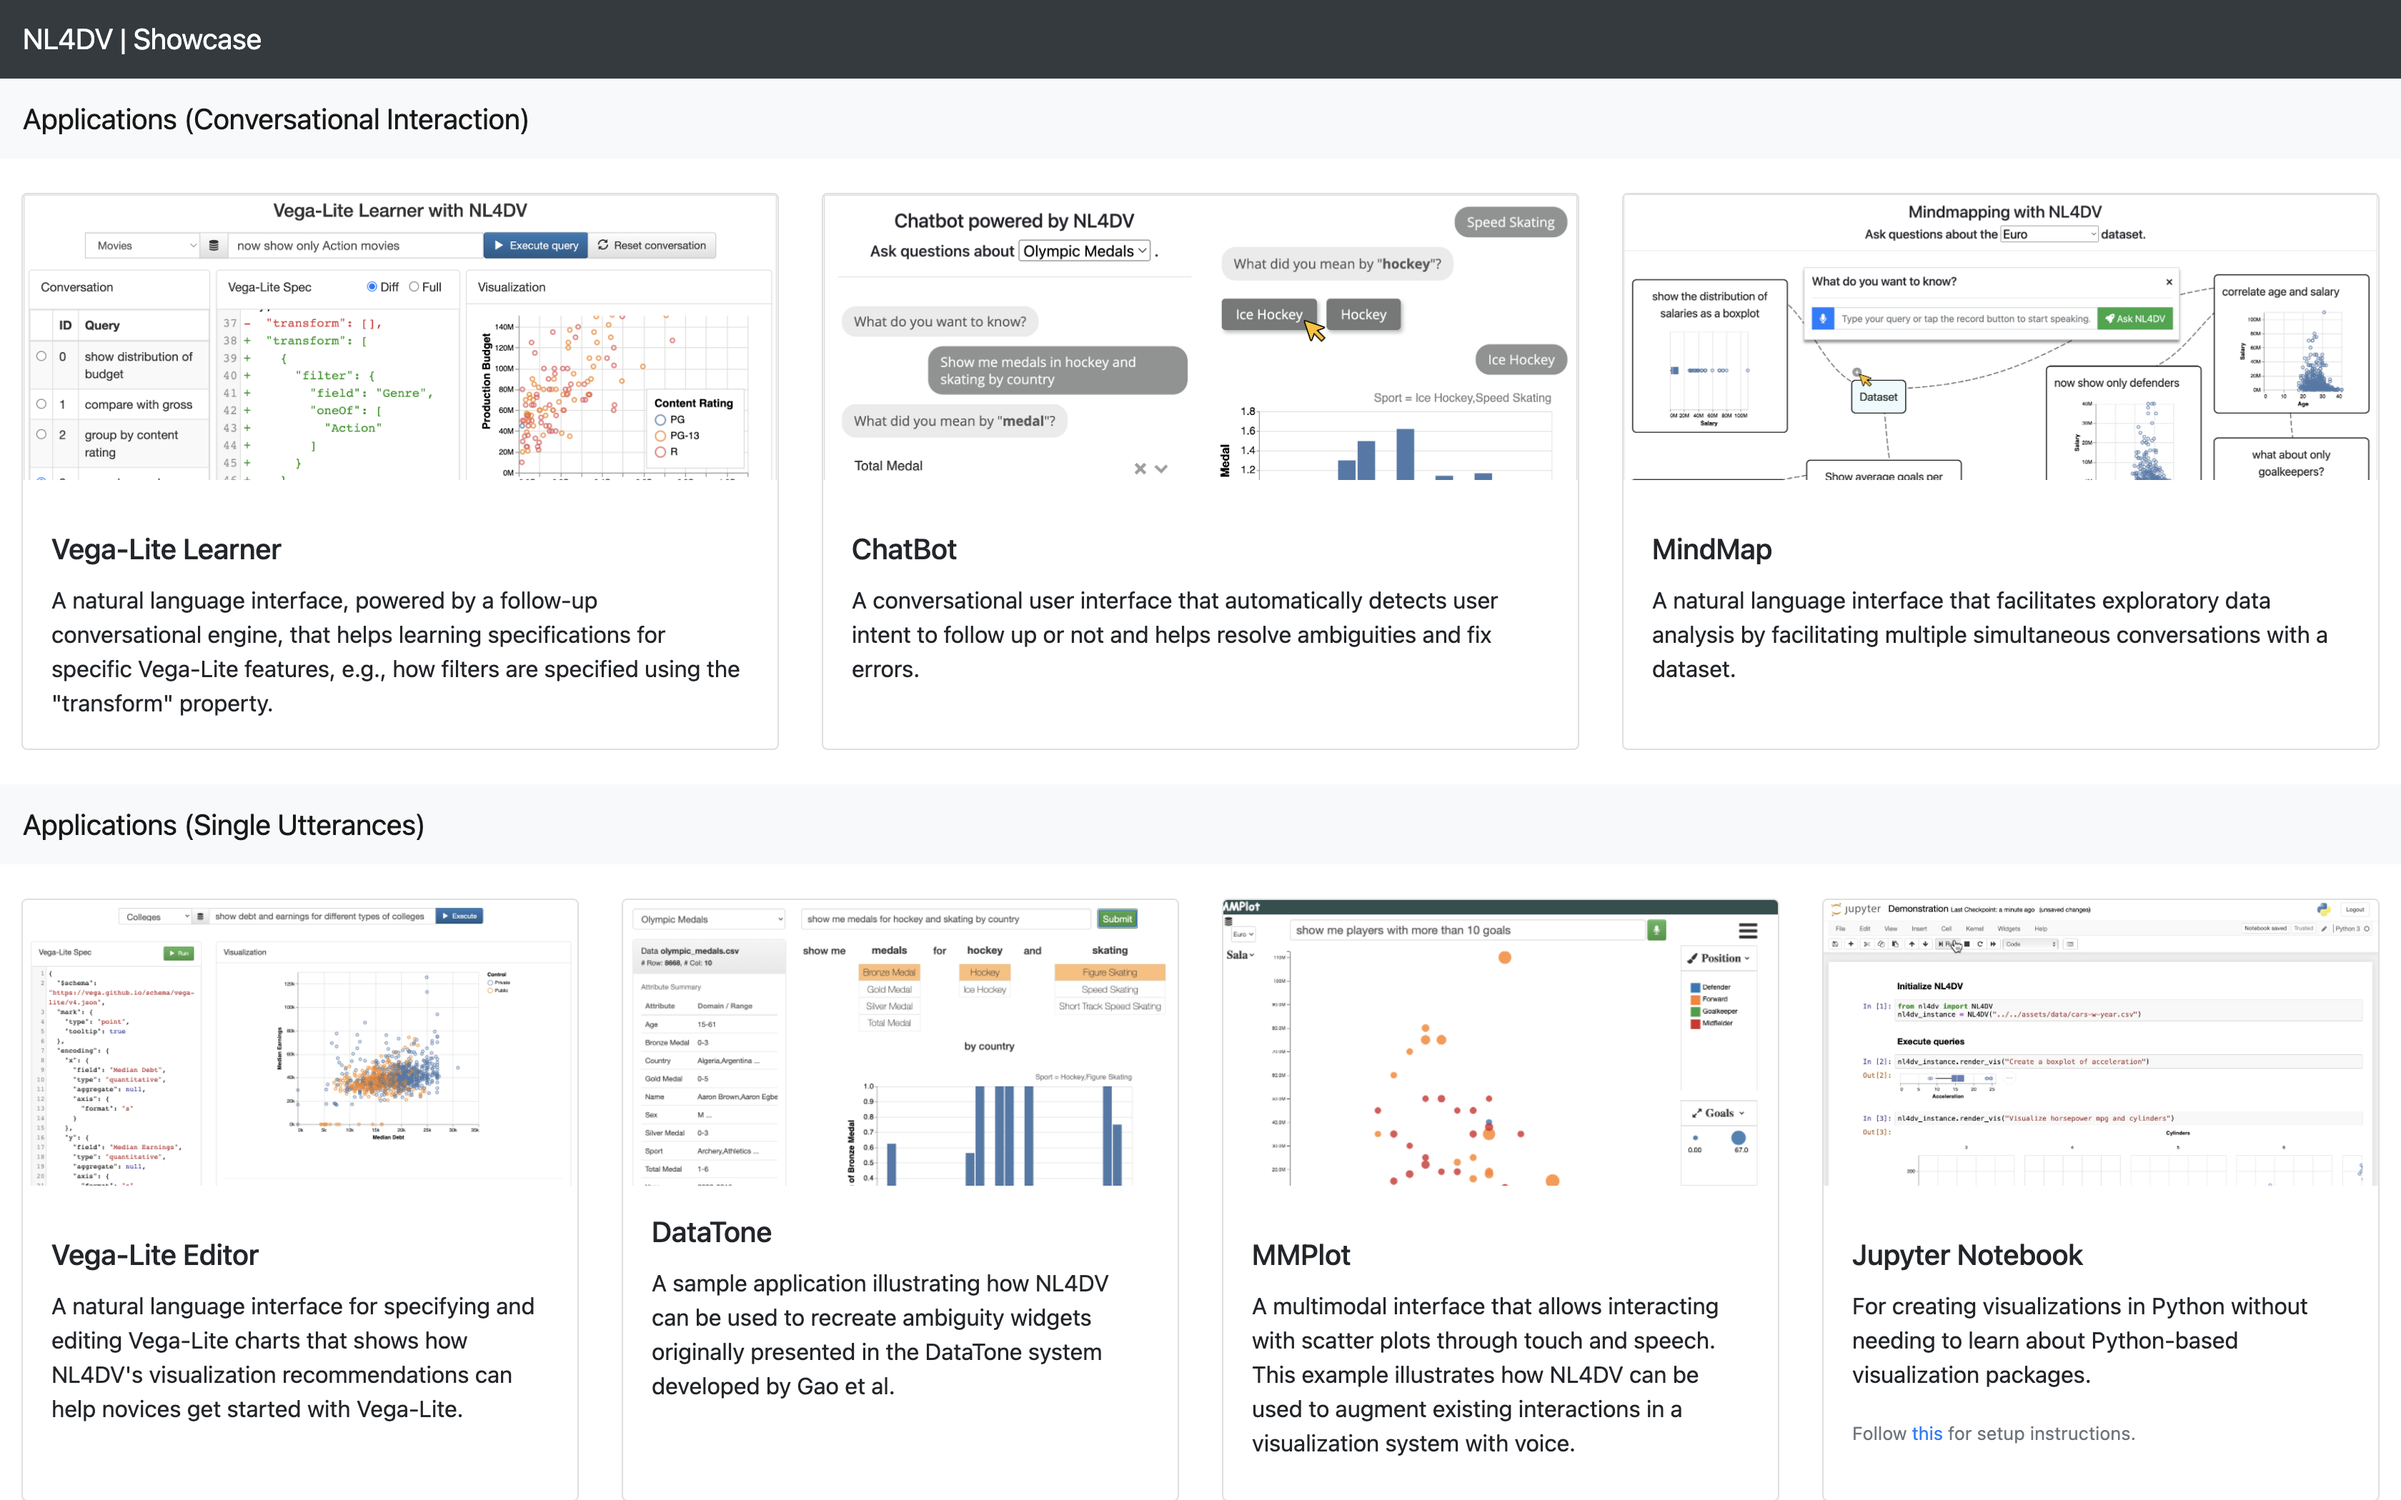
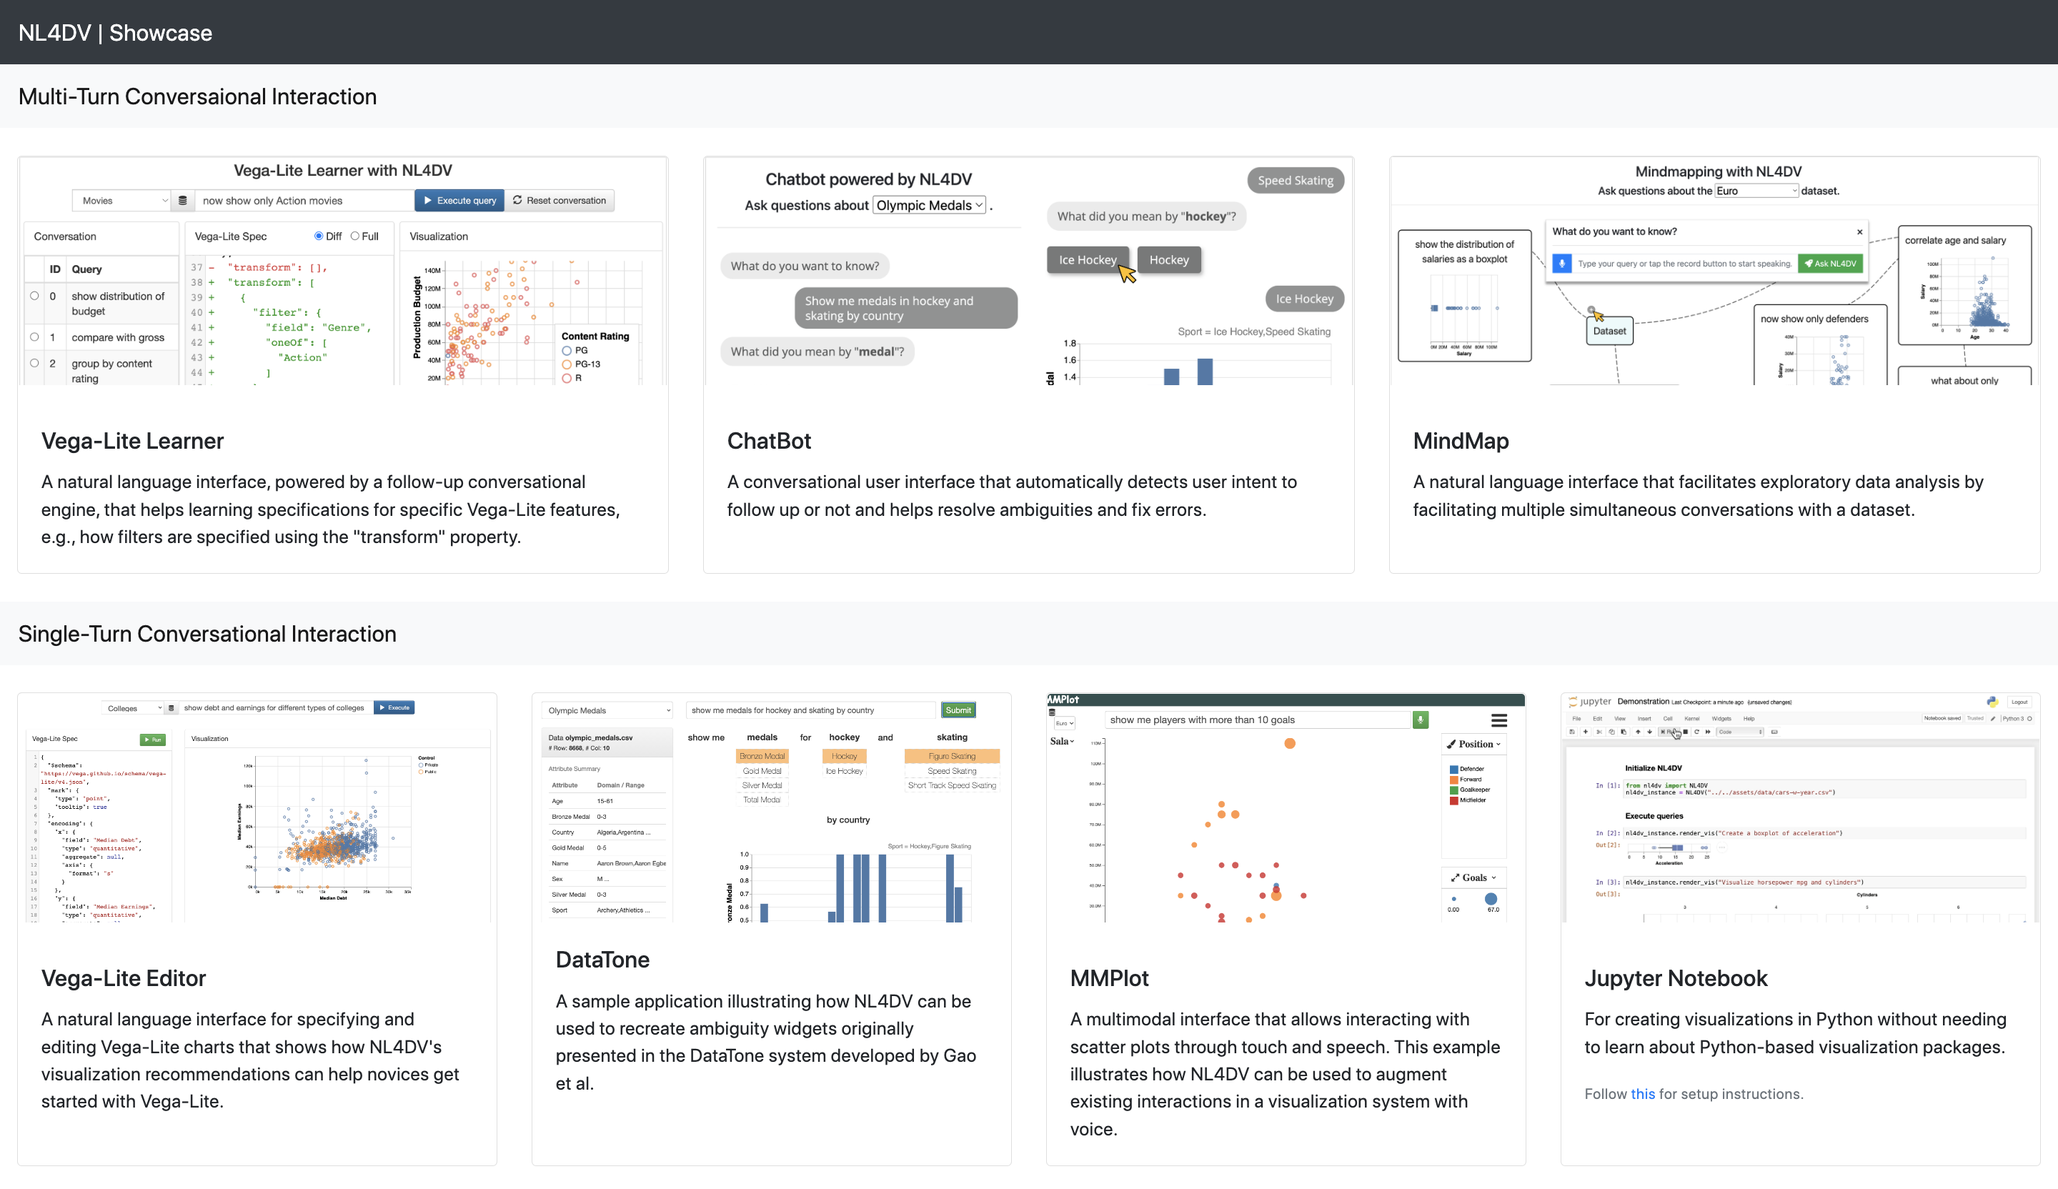
fix website

diff --git a/documentation.html b/documentation.html
@@ -481,7 +481,7 @@ print(output)</code></pre>
                                             <br/>
                                         </li>
                                         <li><p><b>Filter task.</b><br/>NL4DV applies the filter task by matching the condition against each data point but does not encode the involved attributes in the visualization. This was a design decision taken to avoid recommending a complex visualization due to too many encoded attributes.</p></li>
-                                        <li><p><b>Thresholds and Match scores.</b><br/>These are currently set based on heuristics and prior research workss; we encourage users/developers to modify them to suit their specific requirements.</p></li>
+                                        <li><p><b>Thresholds and Match scores.</b><br/>These are currently set based on heuristics and prior research works; we encourage users/developers to modify them to suit their specific requirements.</p></li>
                                     </ul>
                                 </div>
                             </section>
@@ -551,10 +551,10 @@ print(output)</code></pre>
                                             </li>
                                             <li>
                                                 <p>Launch the notebook using <code class="language-bash">jupyter notebook</code>.</p>
-                                                <p>Make sure your Jupyter notebook uses an (virtual) environment has NL4DV installed. Go to <a
+                                                <p>Make sure your Jupyter notebook uses an (virtual) environment that has NL4DV installed. Go to <a
                                                         href="https://github.com/nl4dv/nl4dv/tree/master/examples/applications/notebook"
                                                         target="_blank">examples/applications/notebook</a> and launch
-                                                    <b>Demo.ipynb</b></p>
+                                                    <b>Single-Turn-Conversational-Interaction.ipynb</b> to run the demo that showcases NL4DV's single-turn (standalone) conversational capabilities or <b>Multi-Turn-Conversational-Interaction.ipynb</b> for viewing NL4DV's follow-up capabilities</p>
                                             </li>
                                         </ul>
                                     </div>
@@ -604,10 +604,11 @@ print(output)</code></pre>
                                             </td>
                                         </tr>
                                         <tr>
-                                            <td>analyze_query(query=None,debug=False,verbose=False)</td>
+                                            <td>analyze_query(query=None,debug=False,verbose=False,dialog=None,dialog_id=None,query_id=None)</td>
                                             <td>
                                                 <p><code class="language-python">query</code> (str)</p>
-                                                <p><code class="language-python">debug</code> (str)</p>
+                                                <p><code class="language-python">debug</code> (bool)</p>
+                                                <p><code class="language-python">verbose</code> (bool)</p>
                                                 <p><code class="language-python">dialog</code> (bool or str='auto', optional)</p>
                                                 <p><code class="language-python">dialog_id</code> (str, optional)</p>
                                                 <p><code class="language-python">query_id</code> (str, optional)</p>

diff --git a/index.html b/index.html
@@ -124,7 +124,7 @@
                             </div>
                             <hr>
                             <div>
-                                <a class="btn btn-primary btn-cta m-xs" target="_blank"><i class="fas fa-file-pdf"></i> Research Paper (IEEE VIS'22)</a>
+                                <a class="btn btn-primary btn-cta m-xs" href="https://sites.cc.gatech.edu/~anarechania3/docs/publications/nl4dv_vis_2022.pdf"target="_blank"><i class="fas fa-file-pdf"></i> Research Paper (IEEE VIS'22)</a>
                                 &nbsp;&nbsp;
                                 <a class="btn btn-primary btn-cta m-xs" href="https://gist.github.com/arpitnarechania/84b5c5b2e25d80729b0abb243f67e588" target="_blank"><i class="fas fa-rocket"></i> Live Demo (Colab)</a>
                             </div>

diff --git a/showcase.html b/showcase.html
@@ -315,7 +315,7 @@
                                 <div id="ci-queries" class="section-block">
                                     <div class="row">
                                         <div class="col-md-12">
-                                            <h3 class="block-title">Conversational Interaction</h3>
+                                            <h3 class="block-title">Multi-Turn Conversational Interaction Queries</h3>
                                             <p class="intro">
                                                 Below we provide queries to illustrate NL4DV's conversational interaction capabilities.
                                             </p>
